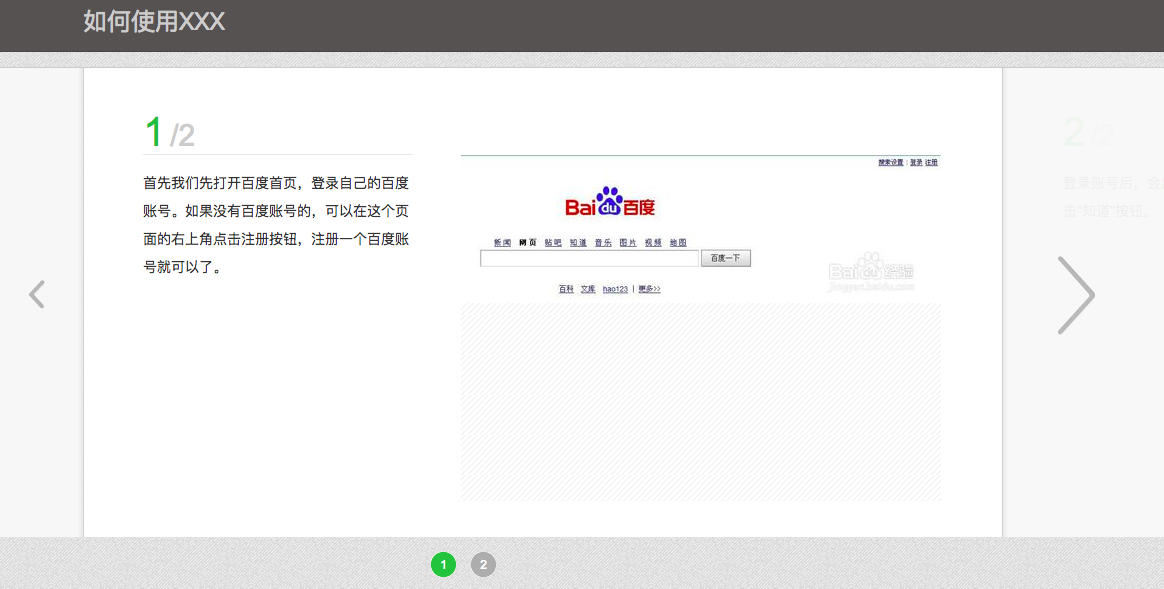
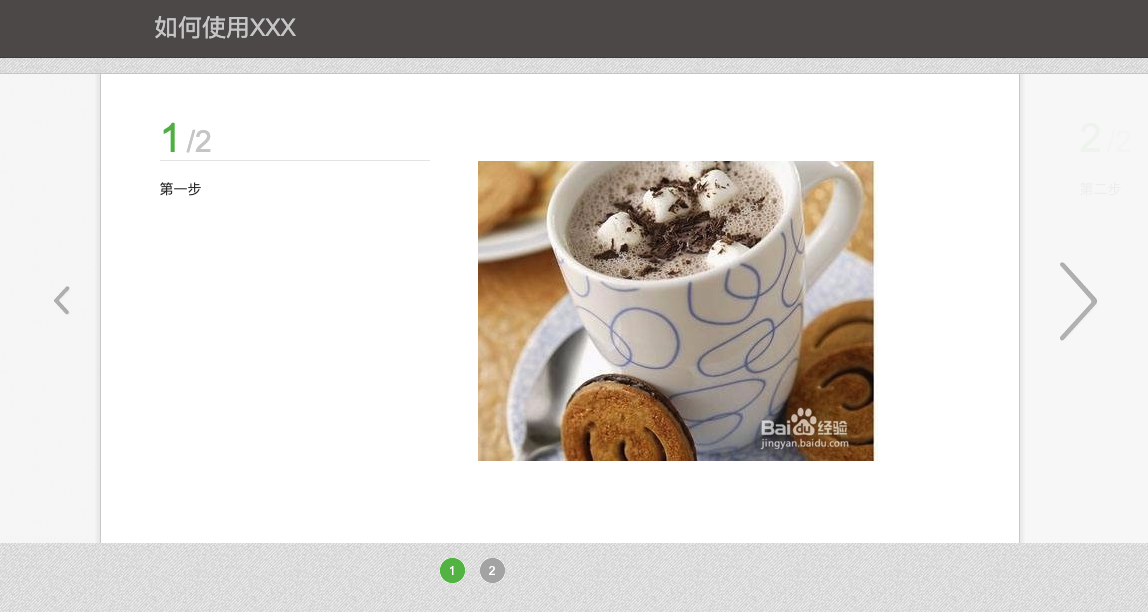
update

diff --git a/css/jquery-slide.css b/css/jquery-slide.css
@@ -29,7 +29,7 @@ body{word-break:break-all;background:#f3f3f3 url(../images/step_bg.png) repeat;m
 #slide_wrapper .step-item-header .current-order-in-step{color:#59b84b;font-size:40px;margin-right:5px;}
 #slide_wrapper .step-text-wrapper{font-size:14px;line-height:28px;color:#333;overflow:hidden;}
 #slide_wrapper .step-item-textimg-inner .step-img-container{margin-top:45px;}
-#slide_wrapper .step-container .step-img-wrapper{background:url(../images/step-img-bg.png) 0 0 repeat;overflow:hidden;position:relative;}
+#slide_wrapper .step-container .step-img-wrapper{overflow:hidden;position:relative;}
 #slide_wrapper .step-item-textimg-inner .step-one-img{width:480px;height:346px;}
 #slide_wrapper .step-container .img-cover{display:block;position:relative;cursor:pointer;}
 #slide_wrapper .step-container .inner-img-cover{position:absolute;cursor:pointer;left:0;top:0;}
@@ -40,3 +40,5 @@ body{word-break:break-all;background:#f3f3f3 url(../images/step_bg.png) repeat;m
 #slide_wrapper .footer,#slide_wrapper .footer a:link,.footer a:visited{clear:both;text-align:center;color:#77C;font:12px/1.5 Arial;white-space:nowrap;}
 #slide_wrapper .footer li a:link,#slide_wrapper .footer li a:visited{color:#fff;background:url(../images/steppage_head.png) -120px -50px no-repeat;display:inline-block;width:25px;height:25px;text-align:center;line-height:2.2;}
 #slide_wrapper .footer li a.current,#slide_wrapper .footer li a.current:hover,#slide_wrapper .footer li a.current:visited{background-position:-120px -140px;}
+#slide_wrapper .left-cover, #slide_wrapper .right-cover {width: calc((100% - 920px)/2) !important;}
+#slide_wrapper .step-play-container {left: calc((100% - 920px)/2) !important;}

diff --git a/index.html b/index.html
@@ -1,7 +1,7 @@
 <!doctype html>
 <html>
 <head>
-	<title>百度经验</title>
+	<title>XXX使用使用指南</title>
 	<meta charset="utf-8">
 	<link rel="stylesheet" type="text/css" href="css/jquery-slide.css">
 </head>
@@ -38,9 +38,9 @@
 	<div class="step-item-container" id="step-item-tmp" style="display: none;">
 		<div class="place_holder" style="height:9%"></div>
 		<div class="step-item-textimg-inner clearfix" style="height:82%">
-			<div class="step-text-container left"> <!--左侧文字区域-->
+			<div class="step-text-container left">
 				<div>
-					<h3 class="step-item-header"><!--左侧文字区域的上方数字-->
+					<h3 class="step-item-header">
 						<span class="current-order-in-step"></span>/<span class="page-num"></span>
 					</h3>
 				</div>
@@ -70,11 +70,11 @@
 		var option = {
 			title: '如何使用XXX',
 			data: [{
-				title: '首先我们先打开百度首页，登录自己的百度账号。如果没有百度账号的，可以在这个页面的右上角点击注册按钮，注册一个百度账号就可以了。',
-				src: 'http://c.hiphotos.baidu.com/exp/w=480/sign=a092942fd6ca7bcb7d7bc6278e086b3f/64380cd7912397dd73d835e85882b2b7d1a287bd.jpg'
+				title: '第一步',
+				src: 'images/steps/step1.jpg'
 			},{
-				title: '登录账号后，会出现如图页面，这时我们单击"知道"按钮。',
-				src: 'http://b.hiphotos.baidu.com/exp/w=480/sign=f5e7f75d810a19d8cb03850d03fb82c9/7c1ed21b0ef41bd59436461850da81cb38db3df0.jpg'
+				title: '第二步',
+				src: 'images/steps/step2.jpg'
 			}]
 		};
 		$('#slide_wrapper').slide(option);

diff --git a/README.md b/README.md
@@ -1,2 +1,5 @@
+## Background
+A tool to show the product usage in the web browser instead of document.You just need to supply the introduction and the example picture step by step.
 ## Examples
-![Screenshot](https://github.com/sunnut/carousel/blob/master/images/ex.png?raw=true "carousel")
+#### Login
+![Screenshot](https://github.com/sunnut/jq-carousel/blob/master/images/ex.png?raw=true "example")
